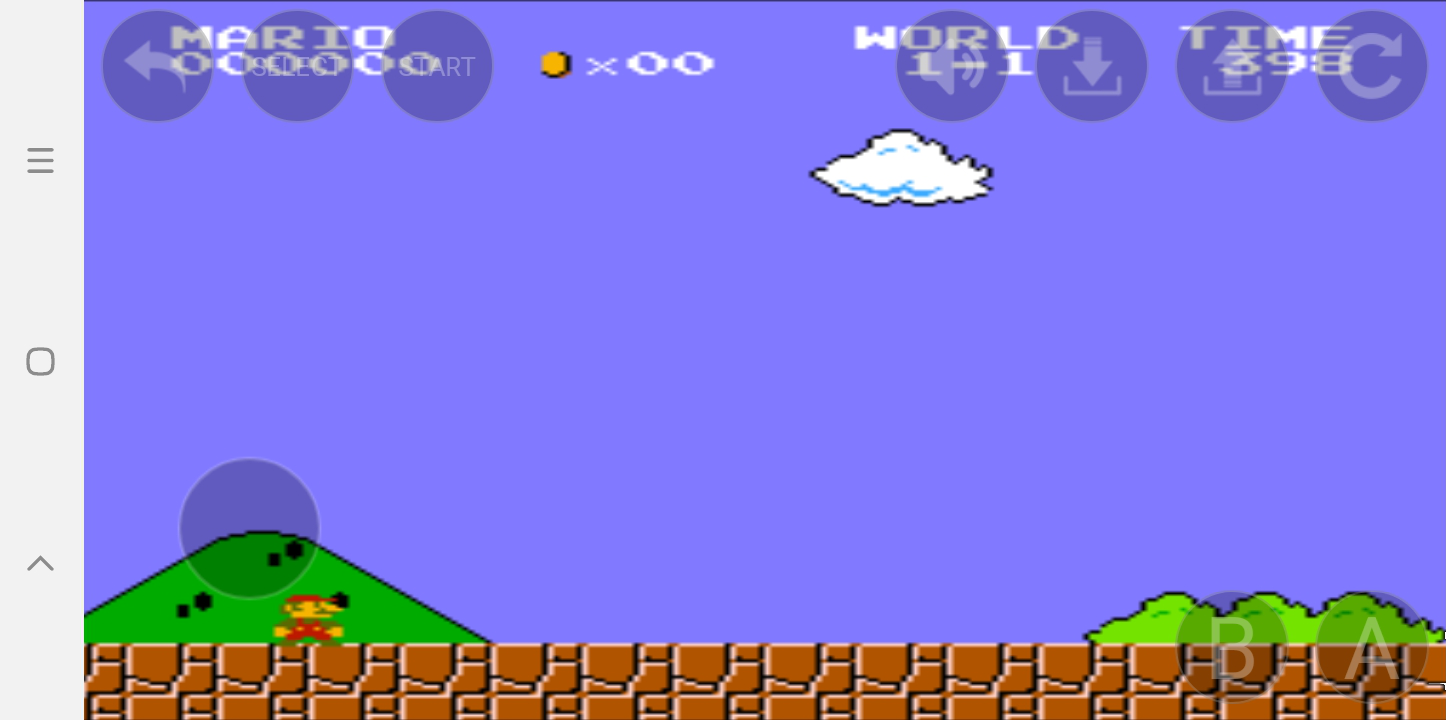
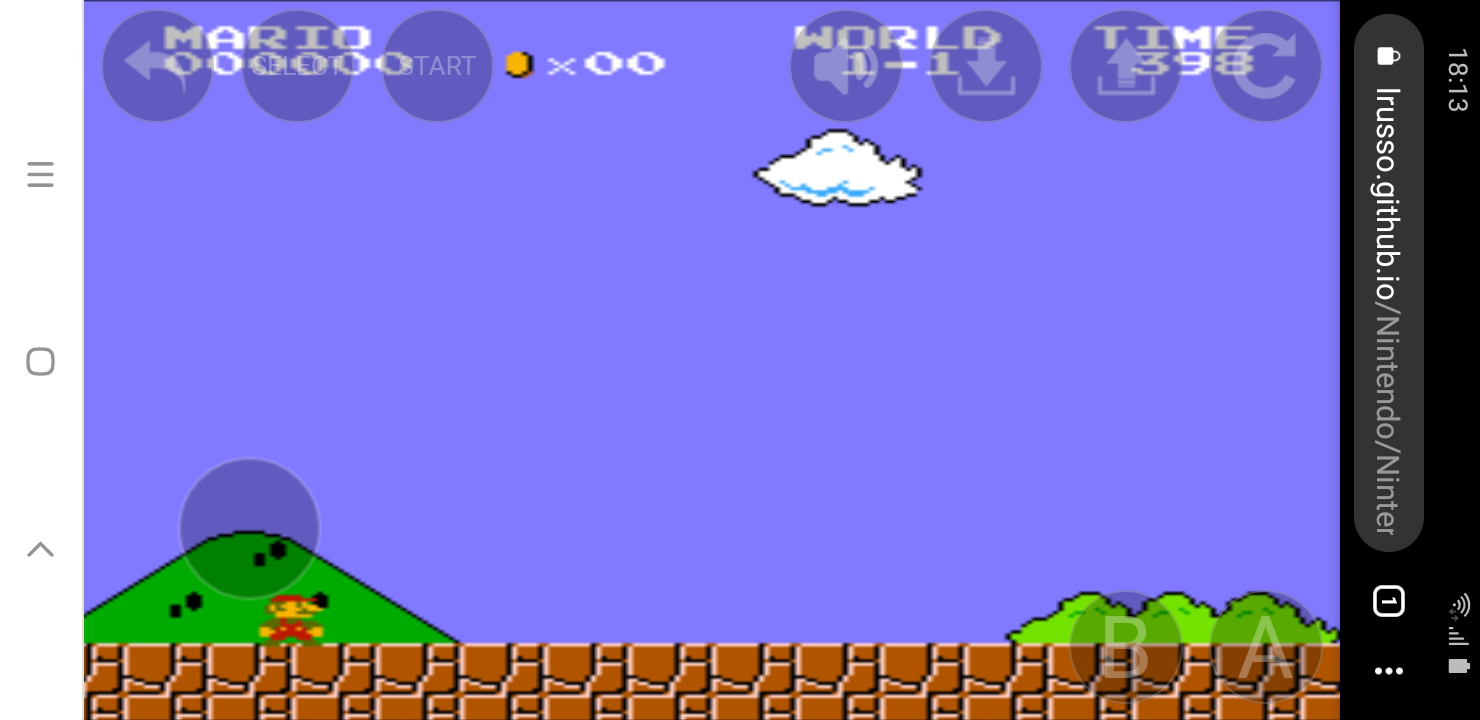
Add files via upload

diff --git a/NintendoGame.htm b/NintendoGame.htm
@@ -53,13 +53,13 @@
 					}
 
 				/* Tablet (medium) */
-				@media screen and (min-width: 831px) and (max-width: 1023px)
+				@media screen and (min-width: 800px) and (max-width: 1023px)
 					{
 
 					}
 
 				/* Smartphones (portrait and landscape)(small) */
-				@media screen and (min-width: 0px) and (max-width: 830px)
+				@media screen and (min-width: 641px) and (max-width: 799px)
 					{
 					.gui_goback_mobile{display:none;position:fixed;left:10px;top:5px;width:63px;height:63px;background-color:rgba(0,0,0,0.25);border:1px solid rgba(255,255,255,0.2);font-family:Arial;font-size:35px;line-height:2.5;color:rgba(255,255,255,0.3);text-align:center;border-radius:50px;cursor:default;z-index:90}
[1 lines of base64/hex data omitted]

diff --git a/Nintendo.htm b/Nintendo.htm
@@ -48,67 +48,6 @@
 		<iframe id="content" src="about:blank"></iframe>
 		<script>
 
-			// isMobileDevice.js
-			function isMobileDevice(){return!!(navigator.userAgent.match(/Android/i)||navigator.userAgent.match(/webOS/i)||navigator.userAgent.match(/iPhone/i)||navigator.userAgent.match(/iPad/i)||navigator.userAgent.match(/iPod/i)||navigator.userAgent.match(/BlackBerry/i)||navigator.userAgent.match(/Windows Phone/i))}
-
-			function requestEnterFSMode()
-				{
-				try
-					{
-					if (isMobileDevice()==true)
-						{
-						if (document.getElementsByTagName("body")[0].requestFullscreen)
-							{
-							document.getElementsByTagName("body")[0].requestFullscreen();
-							}
-						else if (document.getElementsByTagName("body")[0].webkitRequestFullscreen)
-							{
-							document.getElementsByTagName("body")[0].webkitRequestFullscreen();
-							}
-						else if (document.getElementsByTagName("body")[0].mozRequestFullscreen)
-							{
-							document.getElementsByTagName("body")[0].mozRequestFullscreen();
-							}
-						else if (document.getElementsByTagName("body")[0].msRequestFullscreen)
-							{
-							document.getElementsByTagName("body")[0].msRequestFullscreen();
-							}
-						}
-					}
-					catch(err)
-					{
-					}
-				}
-
-			function requestExitFSMode()
-				{
-				try
-					{
-					if (isMobileDevice()==true)
-						{
-						if (document.exitFullscreen)
-							{
-							document.exitFullscreen();
-							}
-						else if (document.webkitExitFullscreen)
-							{
-							document.webkitExitFullscreen();
-							}
-						else if (document.mozCancelFullScreen)
-							{
-							document.mozCancelFullScreen();
-							}
-						else if (document.msExitFullscreen)
-							{
-							document.msExitFullscreen();
-							}
-						}
-					}
-					catch(err)
-					{
-					}
-				}
-
 			function resizeContent()
 				{
 				var w = window.innerWidth;

diff --git a/NintendoGame.js b/NintendoGame.js
@@ -83,9 +83,6 @@ function goBack()
 	{
 	try
 		{
-		// REQUESTING EXIT FULL SCREEN
-		parent.requestExitFSMode();
-
 		// SHOWING THE BACKGROUND
 		document.getElementsByClassName("gui_background")[0].style.display = "block";
 
@@ -202,9 +199,6 @@ function loadROM(files)
 
 				// STARTING/RESTARING THE ROM
 				restartROM();
-
-				// REQUESTING ENTER FULL SCREEN
-				parent.requestEnterFSMode();
 
 				// CLEARING THE SELECTED FILE VALUE
 				document.getElementsByClassName("gui_file")[0].value = null;
@@ -638,26 +632,6 @@ window.addEventListener("blur", function()
 		}
 	});
 
-window.addEventListener("touchstart", function()
-	{
-	// CHECKING IF A GAME IS RUNNING
-	if (document.getElementsByClassName("gui_background")[0].style.display=="none")
-		{
-		// REQUESTING ENTER FULL SCREEN
-		parent.requestEnterFSMode();
-		}
-	});
-
-window.addEventListener("click", function()
-	{
-	// CHECKING IF A GAME IS RUNNING
-	if (document.getElementsByClassName("gui_background")[0].style.display=="none")
-		{
-		// REQUESTING ENTER FULL SCREEN
-		parent.requestEnterFSMode();
-		}
-	});
-
 window.addEventListener("focus", function()
 	{
 	try
@@ -667,9 +641,6 @@ window.addEventListener("focus", function()
 			{
 			// RESUMING THE GAME
 			NintendoEmulator.start();
-
-			// REQUESTING ENTER FULL SCREEN
-			parent.requestEnterFSMode();
 			}
 		}
 		catch(err)
